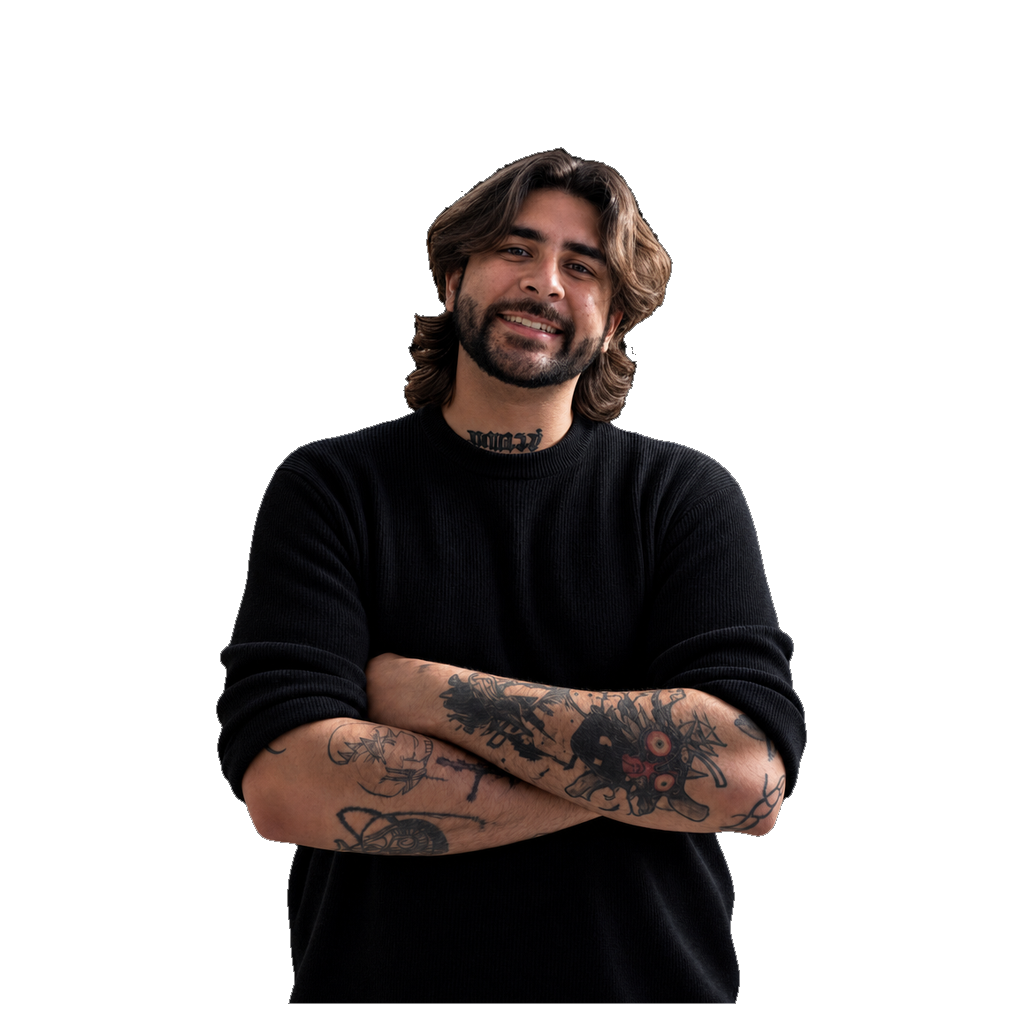
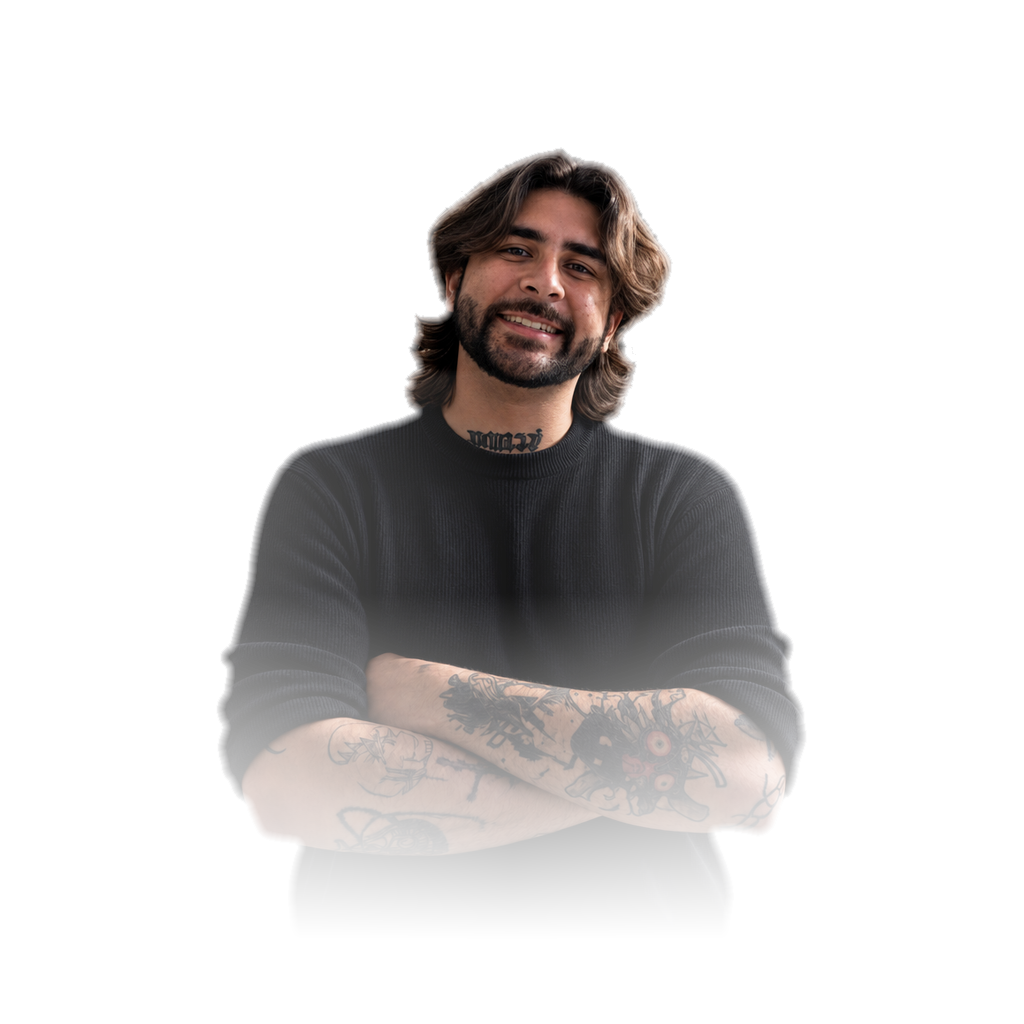
Blend About portrait into the page with soft edge and bottom fade.

diff --git a/src/styles/global.css b/src/styles/global.css
@@ -2936,17 +2936,18 @@ html.js-reveal [data-reveal].is-in {
   position: relative;
   isolation: isolate;
 }
+/* Soft wash behind the cutout — sits in the page bg */
 .portrait-stage::before {
   content: "";
   position: absolute;
-  inset: 18% 2% 4% 22%;
-  border-radius: 40% 60% 55% 45% / 45% 40% 60% 55%;
+  inset: 14% 0% 0% 8%;
+  border-radius: 42% 58% 55% 45% / 48% 42% 58% 52%;
   background:
-    radial-gradient(circle at 35% 35%, color-mix(in srgb, var(--violet) 22%, transparent), transparent 58%),
-    radial-gradient(circle at 70% 65%, color-mix(in srgb, var(--blue) 16%, transparent), transparent 55%);
-  filter: blur(36px);
+    radial-gradient(circle at 38% 36%, color-mix(in srgb, var(--violet) 18%, transparent), transparent 62%),
+    radial-gradient(circle at 68% 62%, color-mix(in srgb, var(--blue) 14%, transparent), transparent 58%);
+  filter: blur(40px);
   z-index: -1;
-  opacity: calc(0.42 * var(--fx, 1));
+  opacity: calc(0.38 * var(--fx, 1));
   animation: blob 12s ease-in-out infinite alternate;
 }
 @keyframes blob {
@@ -2960,13 +2961,22 @@ html.js-reveal [data-reveal].is-in {
 .portrait-cut {
   width: min(100%, 540px);
   margin-inline: auto;
-  filter: drop-shadow(0 18px 32px rgba(0, 0, 0, 0.35));
+  filter: drop-shadow(0 22px 36px rgba(0, 0, 0, 0.28));
 }
+/* Extra CSS dissolve so the asset blends into --bg (face stays solid) */
 .portrait-cut img {
   width: 100%;
   height: auto;
   object-fit: contain;
   display: block;
+  -webkit-mask-image:
+    radial-gradient(ellipse 78% 72% at 50% 38%, #000 46%, rgba(0, 0, 0, 0.75) 68%, transparent 92%),
+    linear-gradient(180deg, #000 0%, #000 52%, rgba(0, 0, 0, 0.55) 78%, transparent 100%);
+  mask-image:
+    radial-gradient(ellipse 78% 72% at 50% 38%, #000 46%, rgba(0, 0, 0, 0.75) 68%, transparent 92%),
+    linear-gradient(180deg, #000 0%, #000 52%, rgba(0, 0, 0, 0.55) 78%, transparent 100%);
+  -webkit-mask-composite: source-in;
+  mask-composite: intersect;
 }
 @media (prefers-reduced-motion: reduce) {
   .portrait-stage::before {